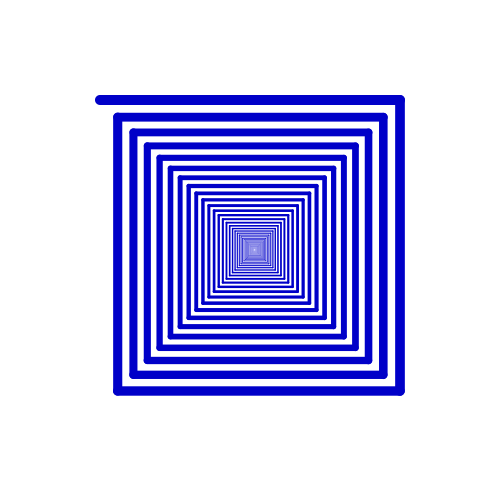
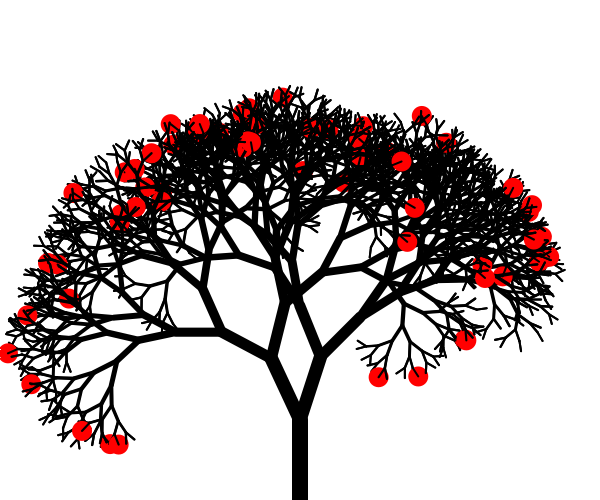
arvore

diff --git a/ed/fractais_png/src/go/draft.go b/ed/fractais_png/src/go/draft.go
@@ -9,24 +9,35 @@ func rand_int(inf, sup int) float64 {
 	return float64(rand.Intn(sup-inf+1) + inf)
 }
 
-func embua(pen *Pen, dist float64) {
-	if dist < 1{
+func arvere(pen *Pen, dist float64) {
+	if dist < 10 {
+		if rand_int(0, 50) == 0 {
+			pen.SetRGB(255, 0, 0)
+			pen.FillCircle(10)
+		}
 		return
 	}
 
-	pen.SetLineWidth(dist / 30)
+	ang_dir := rand_int(10, 40)
+	ang_esq := rand_int(10, 40)
+
+	pen.SetLineWidth(dist / 5)
+	pen.SetRGB(0, 0, 0)
 	pen.Walk(dist)
-	pen.Right(90)
-	dist *= 0.97
-	embua(pen, dist)
+	pen.Right(ang_dir)
+	arvere(pen, dist*(rand_int(80, 85)/100))
+	pen.Left(ang_dir + ang_esq)
+	arvere(pen, dist*(rand_int(80, 85)/100))
+	pen.Right(ang_esq)
+	pen.SetRGB(0, 0, 0)
+	pen.Walk(-dist)
 }
 
 func main() {
-	pen := NewPen(500, 500)
-	pen.SetRGB(0, 0, 200)
-	pen.SetHeading(0)
-	pen.SetPosition(100, 100)
-	embua(pen, 300)
-	pen.SavePNG("embua.png")
+	pen := NewPen(600, 500)
+	pen.SetHeading(90)
+	pen.SetPosition(300, 500)
+	arvere(pen, 80)
+	pen.SavePNG("tree.png")
 	fmt.Println("PNG file created successfully.")
 }